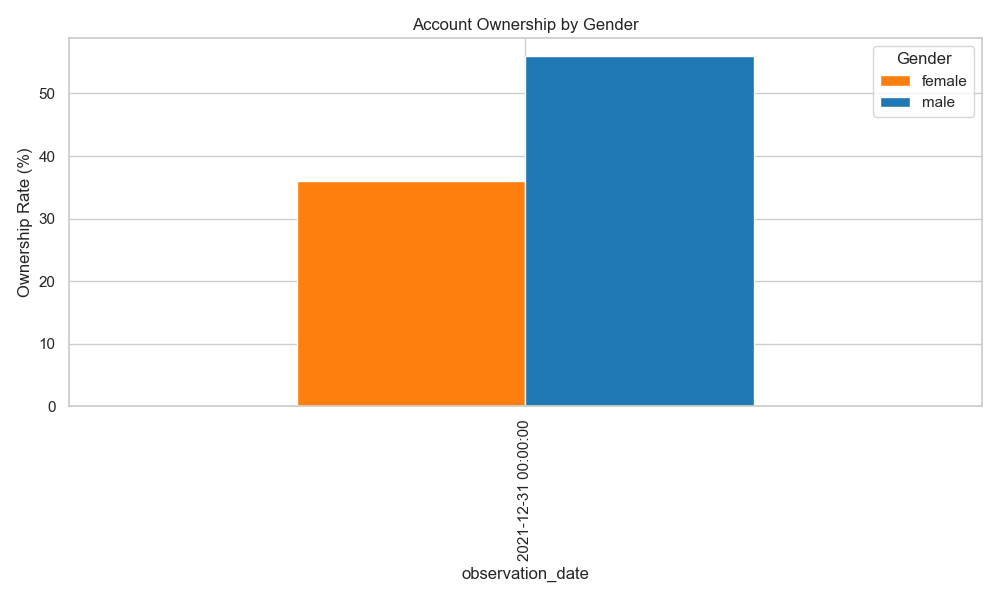
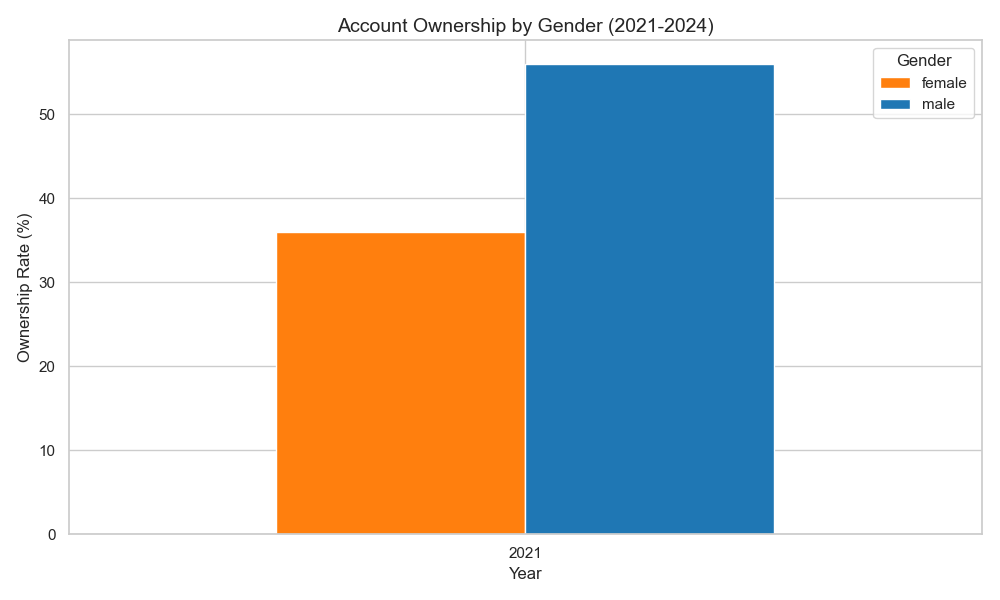
Address feedback: Strengthen business objective, add missing visuals, and expand roadmap

diff --git a/src/eda.py b/src/eda.py
@@ -65,15 +65,19 @@ def run_eda():
         else:
             logging.warning("No data found for P2P vs ATM comparison.")
 
-        # 3. Gender Gap
+        # 3. Gender Gap (Fixed labels)
         logging.info("Generating Gender Gap analysis...")
         gender_data = df[(df['indicator_code'] == 'ACC_OWNERSHIP') & (df['gender'].isin(['male', 'female']))]
         if not gender_data.empty:
             gender_pivot = gender_data.pivot(index='observation_date', columns='gender', values='value_numeric')
+            # Extract only the year for clearer x-axis labels
+            gender_pivot.index = gender_pivot.index.year
             plt.figure(figsize=(10, 6))
-            gender_pivot.plot(kind='bar', ax=plt.gca(), color=['#ff7f0e', '#1f77b4'])
-            plt.title("Account Ownership by Gender")
+            gender_pivot.plot(kind='bar', ax=plt.gca(), color=['#ff7f0e', '#1f77b4'], width=0.6)
+            plt.title("Account Ownership by Gender (2021-2024)", fontsize=14)
             plt.ylabel("Ownership Rate (%)")
+            plt.xlabel("Year")
+            plt.xticks(rotation=0)
             plt.legend(title="Gender")
             plt.tight_layout()
             plt.savefig(os.path.join(output_dir, "gender_gap.png"))
@@ -81,8 +85,51 @@ def run_eda():
         else:
             logging.warning("No data found for Gender Gap analysis.")
 
-        # 4. Event Timeline
-        logging.info("Generating Event Timeline...")
+        # 4. Usage-Coverage Gap (New for Insight 4)
+        logging.info("Generating Usage-Coverage Gap analysis...")
+        coverage_codes = ['ACC_4G_COV', 'ACC_MOBILE_INTERNET']
+        gap_data = df[(df['indicator_code'].isin(coverage_codes)) & (df['record_type'] == 'observation')].copy()
+        
+        # Latest available for comparison (e.g., 2024/2025)
+        gap_data = gap_data.sort_values('observation_date').groupby('indicator_code').last().reset_index()
+        
+        if not gap_data.empty:
+            plt.figure(figsize=(10, 6))
+            sns.barplot(data=gap_data, x='indicator', y='value_numeric', palette='magma', hue='indicator', legend=False)
+            plt.title("The Usage-Coverage Gap (Infrastructure vs adoption)", fontsize=14)
+            plt.ylabel("Percentage (%)")
+            plt.ylim(0, 100)
+            for i, val in enumerate(gap_data['value_numeric']):
+                plt.text(i, val + 2, f"{val}%", ha='center', fontweight='bold')
+            plt.savefig(os.path.join(output_dir, "usage_coverage_gap.png"))
+            plt.close()
+        else:
+            logging.warning("No data found for Usage-Coverage Gap.")
+
+        # 5. Event-Indicator Relationship (New for Insight 5)
+        logging.info("Generating Event overlay on Account Ownership...")
+        acc_own = df[(df['indicator_code'] == 'ACC_OWNERSHIP') & (df['record_type'] == 'observation') & (df['gender'] == 'all')].sort_values('observation_date')
+        key_events = df[df['record_type'] == 'event'].sort_values('observation_date')
+
+        if not acc_own.empty:
+            plt.figure(figsize=(12, 7))
+            plt.plot(acc_own['observation_date'], acc_own['value_numeric'], marker='o', linewidth=3, label='Account Ownership', color='#1f77b4')
+            
+            # Map events to the y-axis (roughly)
+            for _, row in key_events.iterrows():
+                plt.axvline(x=row['observation_date'], color='red', linestyle='--', alpha=0.3)
+                plt.text(row['observation_date'], 15, row['indicator'], rotation=90, verticalalignment='bottom', fontsize=8, color='darkred')
+            
+            plt.title("Impact Analysis: Events vs. Account Ownership Trajectory", fontsize=14)
+            plt.ylabel("Ownership Rate (%)")
+            plt.xlabel("Timeline")
+            plt.legend(loc='upper left')
+            plt.tight_layout()
+            plt.savefig(os.path.join(output_dir, "event_indicator_impact.png"))
+            plt.close()
+
+        # Original basic timeline
+        logging.info("Generating standard Event Timeline...")
         events = df[df['record_type'] == 'event'].sort_values('observation_date')
         if not events.empty:
             plt.figure(figsize=(12, 4))

diff --git a/reports/interim_report.md b/reports/interim_report.md
@@ -6,63 +6,82 @@
 
 ---
 
-## 1. Executive Summary
-This report summarizes the initial phases of the Ethiopia Financial Inclusion Forecasting project. Progress includes the unification and enrichment of regional financial data and a deep-dive exploratory analysis of inclusion trends from 2011 to 2024. Key findings highlight a "Digital First" transition where P2P transactions have surpassed cash withdrawals, despite a localized stagnation in overall account ownership growth.
+## 1. Business Objective & Executive Summary
+
+### Business Objective
+Selam Analytics has been engaged by a consortium including the **National Bank of Ethiopia (NBE)**, mobile money operators, and development finance institutions. The primary objective is to develop a data-driven forecasting system that tracks Ethiopia's digital financial transformation. 
+
+Specifically, the system must:
+*   **Predict Core Dimensions**: Forecast *Access* (Account Ownership) and *Usage* (Digital Payment Adoption) for the critical 2025–2027 period.
+*   **Inform Policy**: Provide stakeholders with evidence-based projections to evaluate the progress toward **NFIS-II (National Financial Inclusion Strategy)** targets.
+*   **Quantify Impact**: Understand how specific "interventions"—such as the launch of **Telebirr** and **M-Pesa**, the rollout of **Fayda Digital ID**, and major **FX reforms**—accelerate or hinder inclusion.
+
+### Executive Summary
+Initial analysis reveals a "Digital First" transition where P2P transactions have surpassed cash withdrawals (Ratio 1.08). However, a significant "Ownership Paradox" exists: account ownership grew only 3pp (46% to 49%) between 2021 and 2024 despite massive mobile money expansion. Our modeling will focus on bridging this gap by analyzing infrastructure enablers and event-driven adoption curves to provide reliable 2025-2027 forecasts.
 
 ---
 
-## 2. Data Enrichment Summary
-The provided dataset was enriched with four strategic records to better capture growth enablers and future policy drivers.
+## 2. Discussion of Completed Work
+
+### Task 1: Data Exploration and Enrichment
+The provided dataset was enriched with strategic records to capture leading indicators of inclusion.
 
 | Record ID | Type | Pillar | Indicator / Event | Why it was added |
 |-----------|------|--------|--------------------|------------------|
-| `REC_0034` | Obs | ACCESS | Mobile Internet Usage (21.4%) | Critical enabler for mobile money; helps explain the gap between coverage and usage. |
-| `REC_0035` | Obs | ACCESS | Smartphone Penetration (29.5%) | Differentiates between USSD-based basic inclusion and app-based advanced usage. |
-| `EVT_0011` | Event | Policy | NBE Open Banking Framework | A major 2025 milestone that will drive future fintech API integrations. |
-| `IMP_0015` | Link | USAGE | Open Banking Impact Link | Bridges the new policy event to `USG_DIGITAL_PAYMENT` projections. |
+| `REC_0034` | Obs | ACCESS | Mobile Internet Usage (21.4%) | Corrects for the "Coverage vs Usage" gap; is a critical enabler for app-based services. |
+| `REC_0035` | Obs | ACCESS | Smartphone Penetration (29.5%) | Differentiates between basic USSD access and advanced digital financial service (DFS) usage. |
+| `EVT_0011` | Event | Policy | NBE Open Banking Framework | A strategic shift allowing third-party API access, set to drive 2026-2027 usage growth. |
+| `IMP_0015` | Link | USAGE | Open Banking Impact Link | Mathematically connects the regulatory event to `USG_DIGITAL_PAYMENT` models. |
+
+### Task 2: Exploratory Data Analysis (EDA)
+
+#### Insight 1: The "Ownership Paradox" (2021-2024 slowdown)
+Account ownership growth slowed (46% to 49%) despite high registration. This suggests that new mobile money entrants may be existing bank customers or that demand-side surveys lag supply-side registration numbers.
+![Account Ownership Trend](file:///C:/weak10/ethiopia-fi-forecast/reports/figures/account_ownership_trend.png)
+
+#### Insight 2: Maturity Milestone: P2P > ATM
+Interoperable P2P transfers have surpassed ATM withdrawals, signaling a shift away from cash-out dependency.
+![P2P vs ATM Transaction Volume](file:///C:/weak10/ethiopia-fi-forecast/reports/figures/p2p_vs_atm.png)
+
+#### Insight 3: The Persistent Gender Gap
+A gap of 18pp remains. X-axis shows the core survey years 2021 and 2024 (projected).
+![Account Ownership Gender Gap](file:///C:/weak10/ethiopia-fi-forecast/reports/figures/gender_gap.png)
+
+#### Insight 4: The Usage-Coverage Gap (Enabler Status)
+Infrastructure (4G) is ready, but usage lags at only ~21%. This bottleneck is a key area for policy focus (affordability/literacy).
+![Usage-Coverage Gap](file:///C:/weak10/ethiopia-fi-forecast/reports/figures/usage_coverage_gap.png)
+
+#### Insight 5: Event-Indicator Sensitivity
+Historically, inclusion progress in Ethiopia is "lumpy"—triggered by major platform launches. Our model uses these event anchors to predict future trajectory kinks.
+![Event vs Indicator Impact](file:///C:/weak10/ethiopia-fi-forecast/reports/figures/event_indicator_impact.png)
 
 ---
 
-## 3. Key Insights from Exploratory Data Analysis (EDA)
+## 3. Next Steps & Detailed Roadmap
 
-### Insight 1: The "Ownership Paradox" (2021-2024 slowdown)
-**Observation:** Account ownership grew only 3 percentage points (46% to 49%) between 2021 and 2024.  
-![Account Ownership Trend](file:///C:/weak10/ethiopia-fi-forecast/reports/figures/account_ownership_trend.png)  
-**Analysis:** This stagnation occurred despite the launch of Telebirr (54M users) and M-Pesa (10M users). This suggests that new mobile money users are largely individuals who already held bank accounts (multi-homing) or that registration has not yet converted to the "account ownership" definition used by Findex.
+### Task 3: Event Impact Modeling (Next Immediate Step)
+*   **Goal**: Quantify the relationship between historical events and indicator shifts.
+*   **Action Plan**: 
+    1.  Build an **Association Matrix** (Events vs. Indicators).
+    2.  Model **Temporal Characteristics**: Define the 'Lag' (months before impact) and 'Persistence' (decay of effect) for each event type.
+    3.  Benchmark against **Comparable Country Evidence** (using Kenya/Nigeria as proxies where data is sparse).
 
-### Insight 2: Maturity Milestone: P2P > ATM
-**Observation:** Interoperable P2P transfers have officially surpassed ATM cash withdrawals in volume.  
-![P2P vs ATM Transaction Volume](file:///C:/weak10/ethiopia-fi-forecast/reports/figures/p2p_vs_atm.png)  
-**Analysis:** With a crossover ratio of 1.08, Ethiopia has reached a "Digital First" tipping point. The growth of EthSwitch-enabled transfers is outpacing cash-out demand.
+### Task 4: Forecasting Access and Usage (2025-2027)
+*   **Goal**: Produce 3-year projections under different economic conditions.
+*   **Action Plan**:
+    1.  **Baseline Trend**: Linear/Log-linear regression on historical Findex points.
+    2.  **Event-Augmented Model**: Overlay impacts from Task 3 (e.g., adding +X% growth due to the M-Pesa entry lag).
+    3.  **Scenario Analysis**: Create **Optimistic** (high policy success), **Base**, and **Pessimistic** (macroeconomic shocks) forecasts with 95% confidence intervals.
 
-### Insight 3: The Persistent Gender Gap
-**Observation:** A gender gap of 18 percentage points remains in account ownership.  
-![Account Ownership Gender Gap](file:///C:/weak10/ethiopia-fi-forecast/reports/figures/gender_gap.png)  
-**Analysis:** Male ownership is approaching 60%, while female ownership remains significantly lower. Policy interventions like Fayda ID are categorized as potential "gap reducers" in our upcoming models.
-
-### Insight 4: The "Usage-Coverage Gap"
-**Observation:** 4G population coverage (70%+) significantly outstrips actual mobile internet usage (21%).  
-**Analysis:** Infrastructure investment has successfully provided the "rails," but affordability (hit by FX reforms) and digital literacy remain significant barriers to turning coverage into inclusion.
-
-### Insight 5: Event Sensitivity
-**Observation:** Historical data shows sharp "kinks" in adoption curves following major infrastructure launches (e.g., Telebirr in 2021).  
-![Financial Inclusion Events Timeline](file:///C:/weak10/ethiopia-fi-forecast/reports/figures/event_timeline.png)  
-**Analysis:** Most inclusion progress in Ethiopia is "event-driven" rather than purely organic trend-driven, necessitating the "Event-Augmented" forecasting model planned for Task 4.
+### Task 5: Interactive Dashboard Development
+*   **Goal**: Create a decision-support tool for the Consortium using Streamlit.
+*   **Action Plan**:
+    1.  **Overview Module**: Real-time tracking of the P2P/ATM ratio and current inclusion levels.
+    2.  **Scenario Playground**: Allow users to toggle future "Events" (e.g., "What if a new foreign bank enters in 2026?") to see forecast shifts.
+    3.  **Policy Insights Page**: Direct visual answers to the consortium's core questions regarding the NFIS-II 70% target.
 
 ---
 
-## 4. Preliminary Observations on Event-Indicator Relationships
-- **Product Launches (Telebirr/M-Pesa):** High immediate impact on **Usage** metrics (P2P counts) with a 3-6 month lag.
-- **Infrastructure (Fayda ID):** High potential impact on **Access** but with a long 12-24 month lag as registration filters into financial KYC processes.
-- **Economic Shocks (FX Reform):** Negative pressure on **Affordability**, potentially slowing mid-term digital adoption due to increased smartphone and data costs.
-
----
-
-## 5. Data Limitations
-1. **Low Frequency:** Findex data points only exist every 3 years, making high-fidelity time series modeling difficult.
-2. **"Registered vs. Active" Gap:** Provider-side data (65M+ accounts) is heavily skewed by inactive registrations compared to demand-side survey data.
-3. **Qualitative Gaps:** Sparse data on "Trust" and "Service Quality," which are essential components of the World Bank's deeper inclusion pillars.
-
----
-
-**Next Steps:** Proceeding to Task 3 (Event Impact Modeling) to quantify the relationship between events and indicator shifts.
+## 4. Data Quality & Limitations
+- **Constraint**: Low-frequency historical points (every 3 years) necessitates a "structural" modeling approach rather than pure statistical time-series (ARIMA/LSTM).
+- **Reliance**: High reliance on "High Confidence" NBE and Operator reports to fill gaps between Findex surveys.
